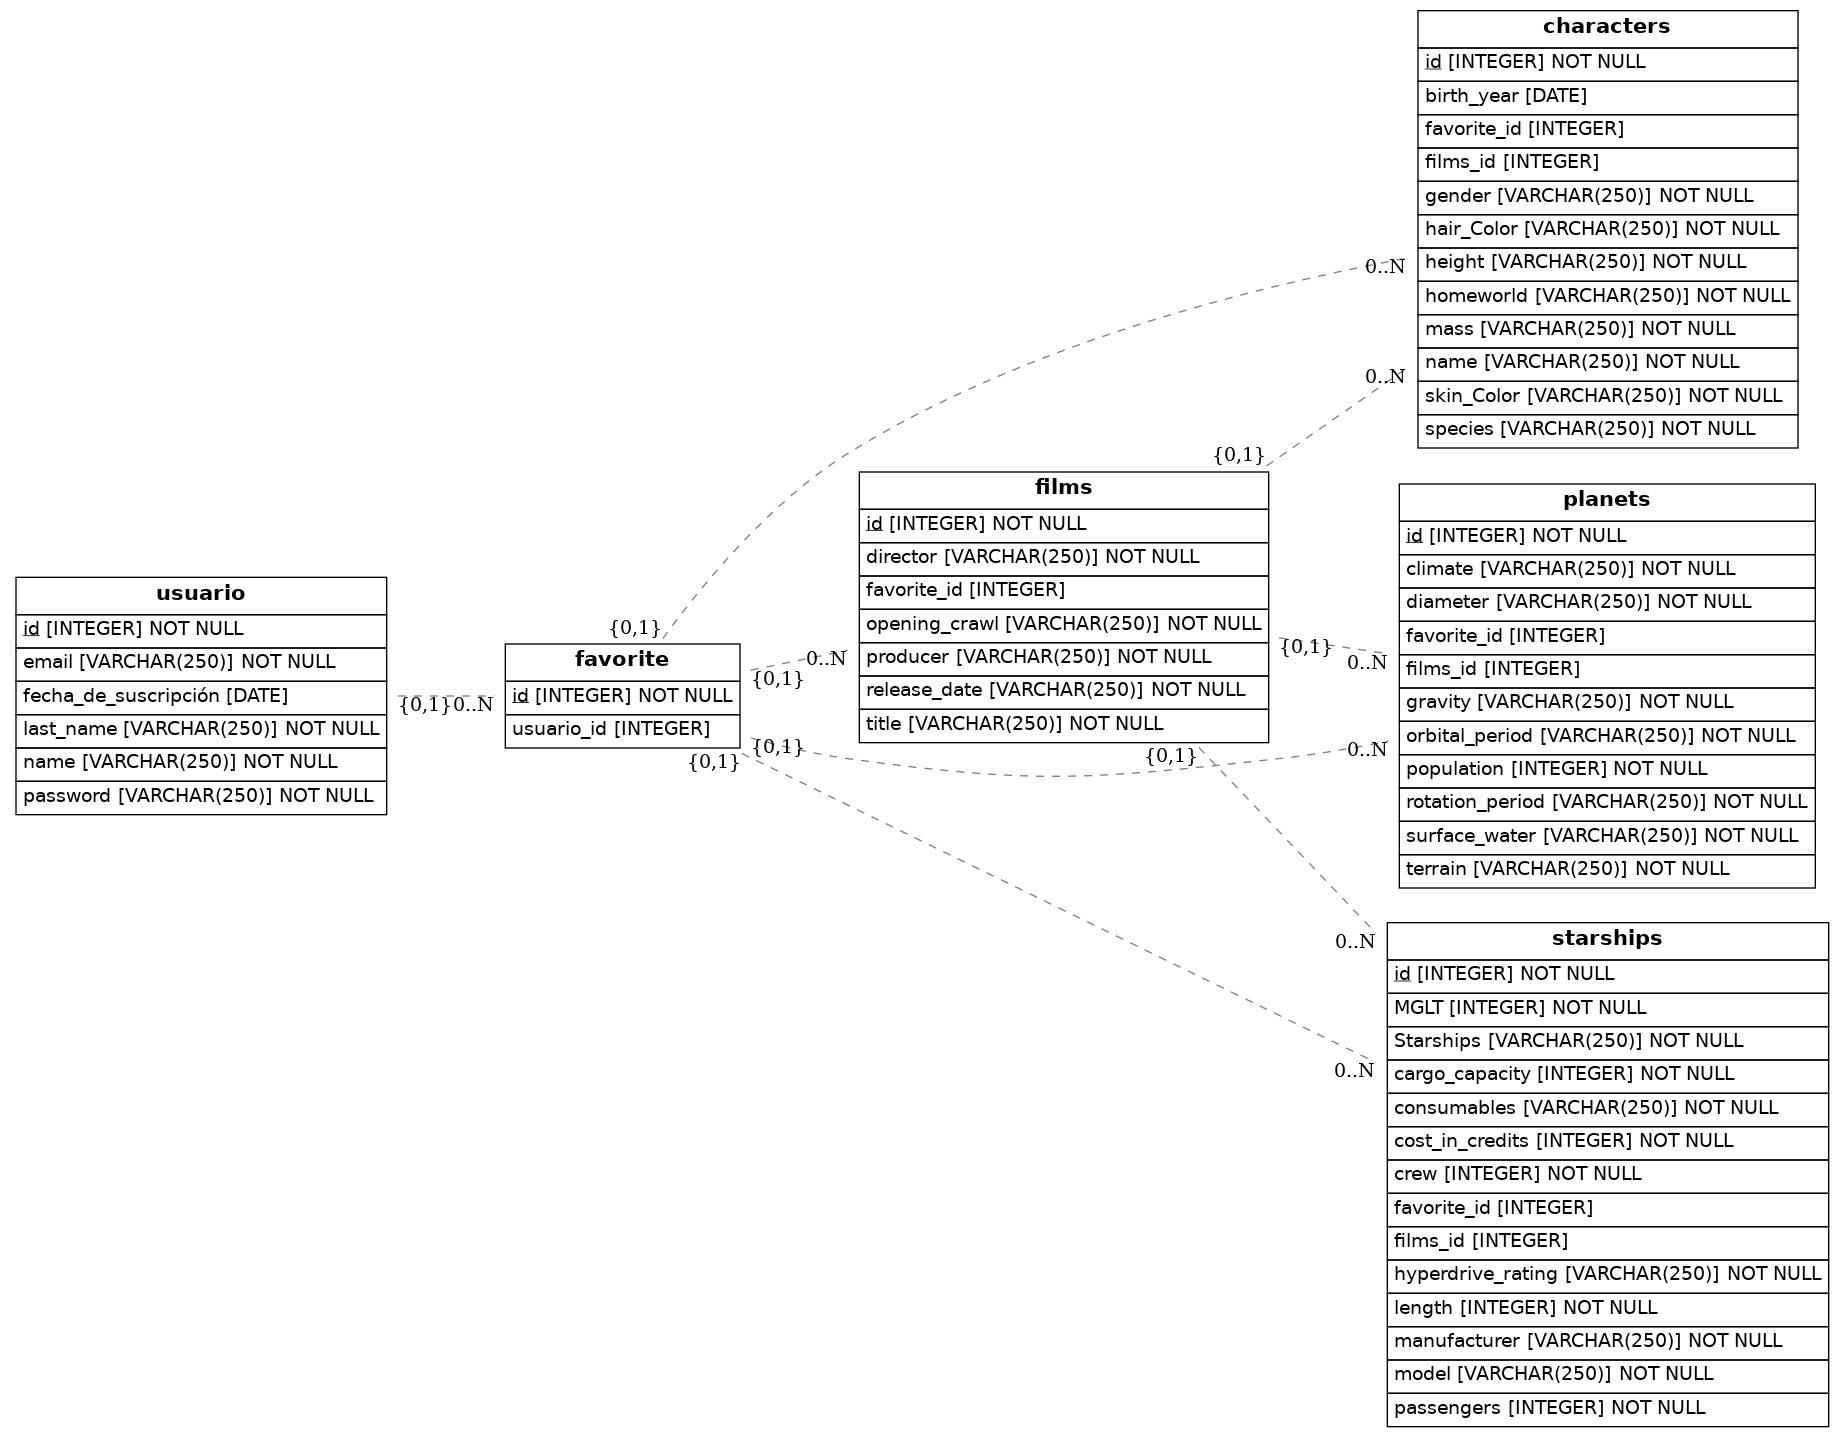
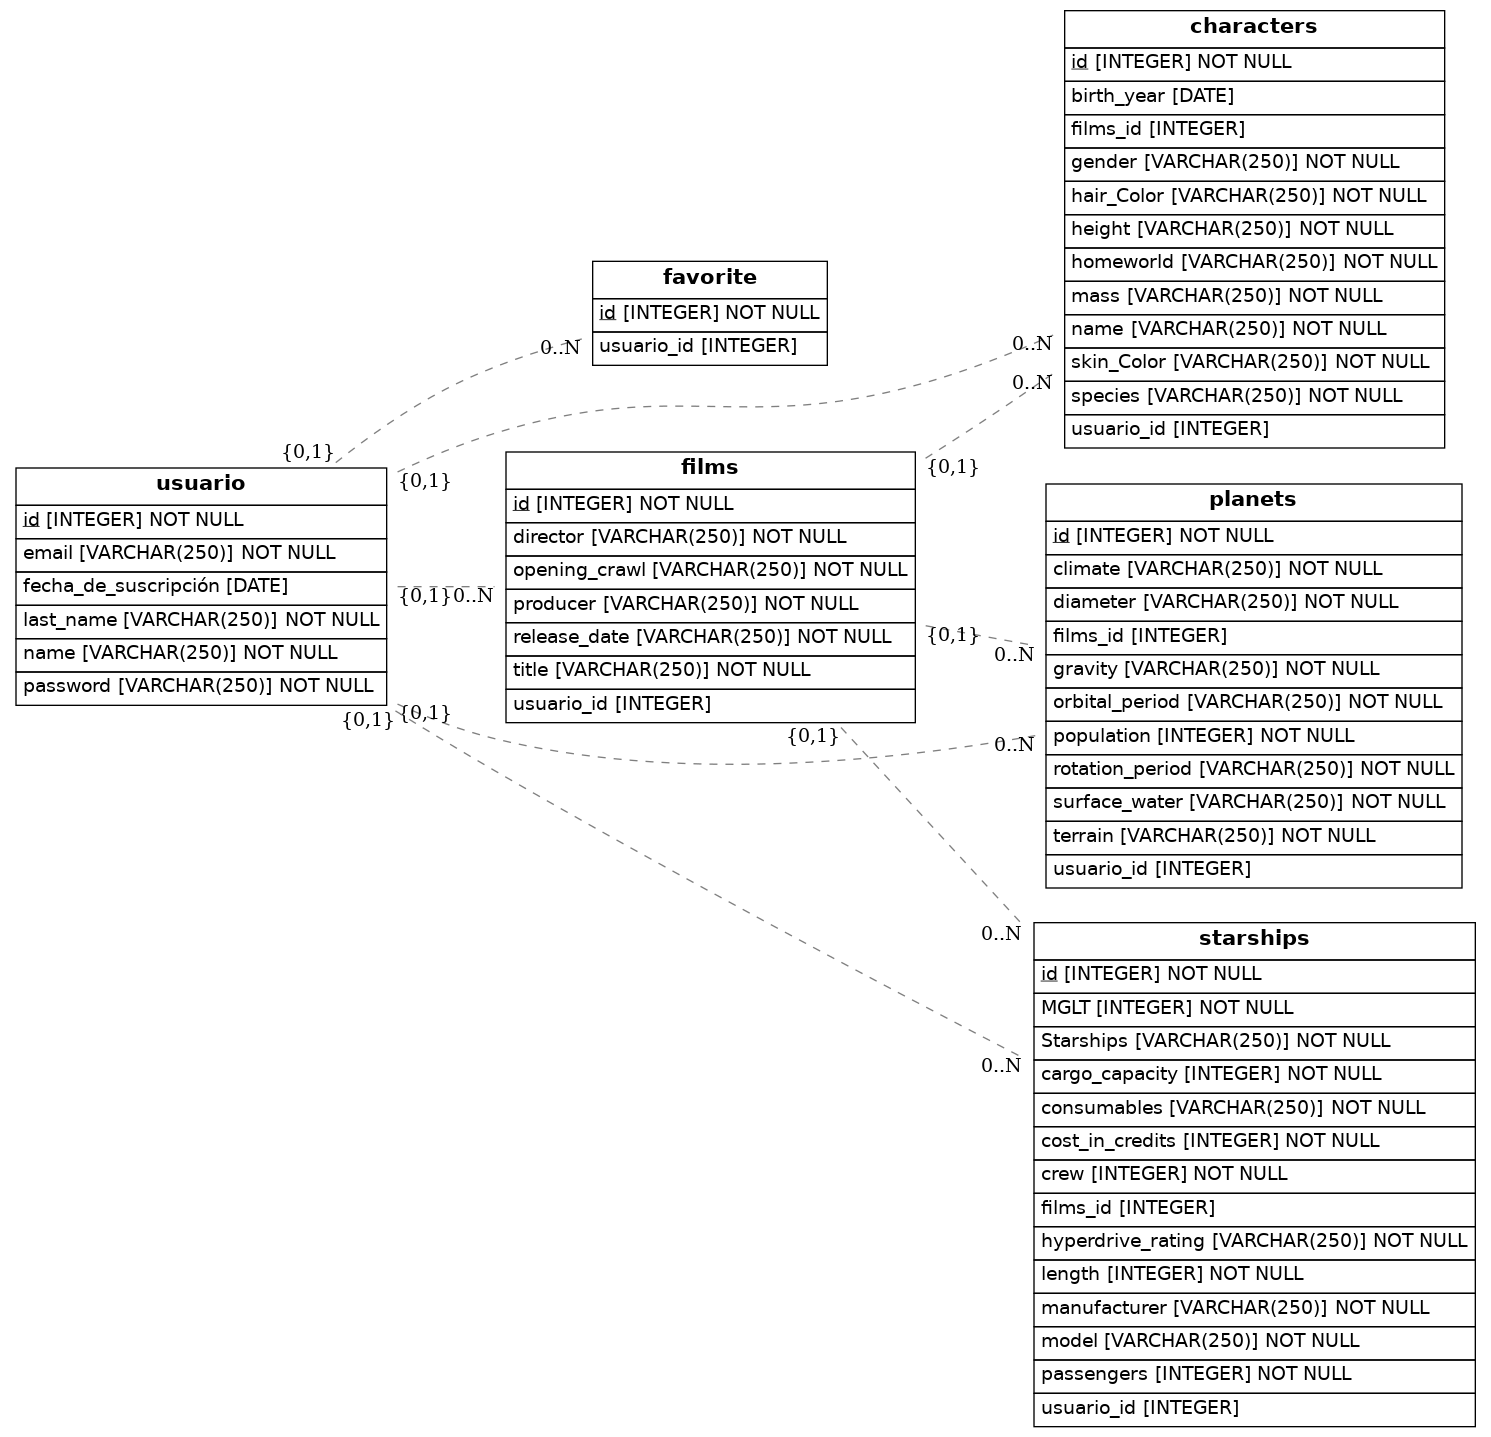
base de datos star wars

diff --git a/src/models.py b/src/models.py
@@ -37,8 +37,8 @@ class Films(Base):
     director = Column(String(250), nullable=False)
     producer = Column(String(250), nullable=False)
     release_date = Column(String(250), nullable=False)
-    favorite_id = Column(Integer, ForeignKey('favorite.id'))
-    favorite = relationship("Favorite")
+    usuario_id = Column(Integer, ForeignKey('usuario.id'))
+    usuario = relationship("Usuario")
 
     def to_dict(self):
         return {}
@@ -57,10 +57,10 @@ class Characters(Base):
     hair_Color = Column(String(250), nullable=False)
     skin_Color = Column(String(250), nullable=False)
     homeworld = Column(String(250), nullable=False)
-    favorite_id = Column(Integer, ForeignKey('favorite.id'))
-    favorite = relationship("favorite")
+    usuario_id = Column(Integer, ForeignKey('usuario.id'))
+    usuario = relationship("Usuario")
     films_id = Column(Integer, ForeignKey('films.id'))
-    film = relationship("films")
+    film = relationship("Films")
 
     def to_dict(self):
         return {}
@@ -77,10 +77,10 @@ class Planets(Base):
     terrain = Column(String(250), nullable=False)
     surface_water =Column(String(250), nullable=False)
     climate = Column(String(250), nullable=False)
-    favorite_id = Column(Integer, ForeignKey('favorite.id'))
-    favorite = relationship("Usuario")
+    usuario_id = Column(Integer, ForeignKey('usuario.id'))
+    usuario = relationship("Usuario")
     films_id = Column(Integer, ForeignKey('films.id'))
-    film = relationship("films")
+    film = relationship("Films")
 
     def to_dict(self):
         return {}
@@ -100,10 +100,10 @@ class Starships(Base):
     hyperdrive_rating = Column(String(250), nullable=False)
     MGLT = Column(Integer, nullable=False)
     Starships = Column(String(250), nullable=False)
-    favorite_id = Column(Integer, ForeignKey('favorite.id'))
-    favorite = relationship("Favorite")
+    usuario_id = Column(Integer, ForeignKey('usuario.id'))
+    usuario = relationship("Usuario")
     films_id = Column(Integer, ForeignKey('films.id'))
-    film = relationship("films")
+    film = relationship("Films")
 
     def to_dict(self):
         return {}
